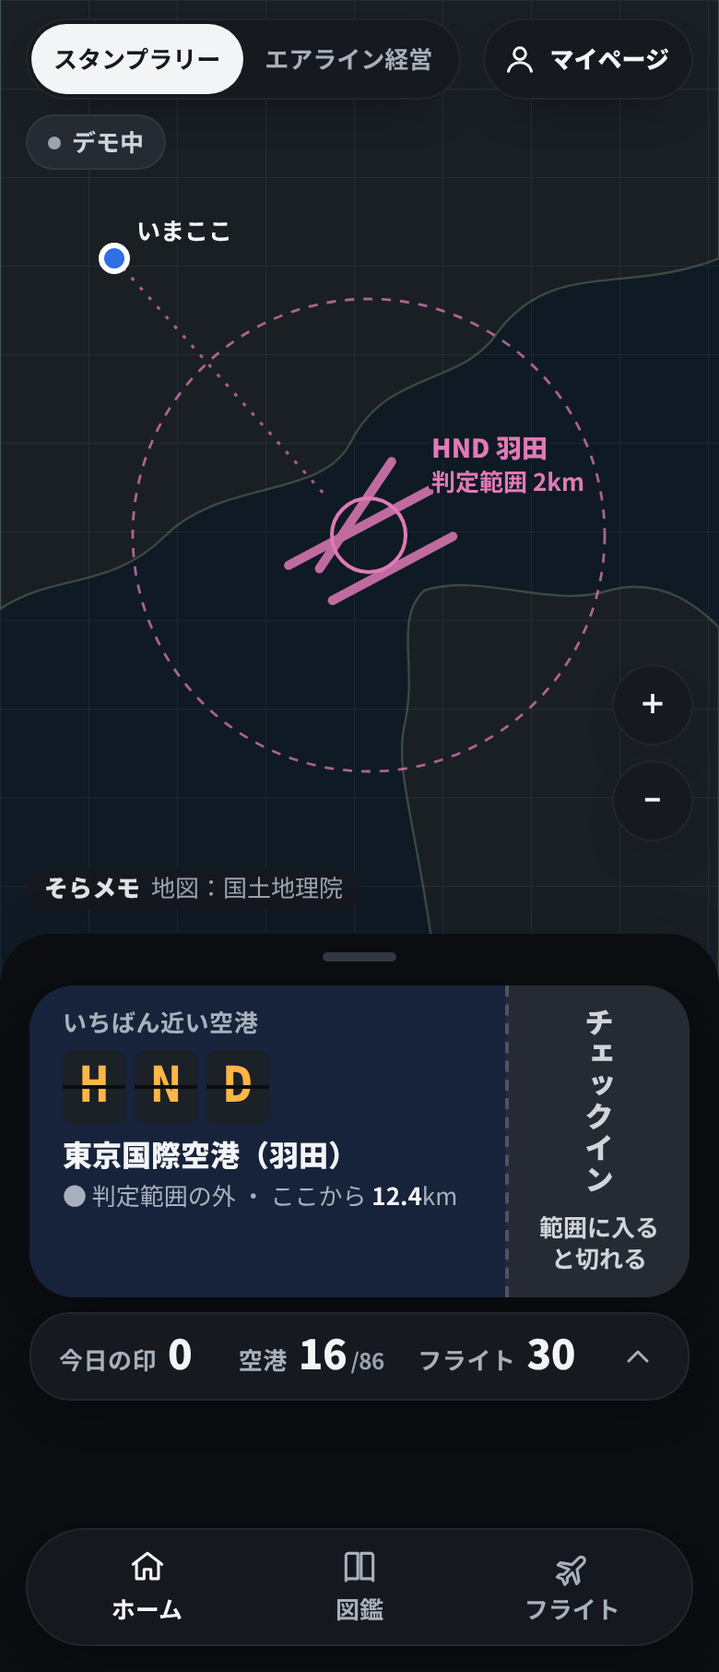
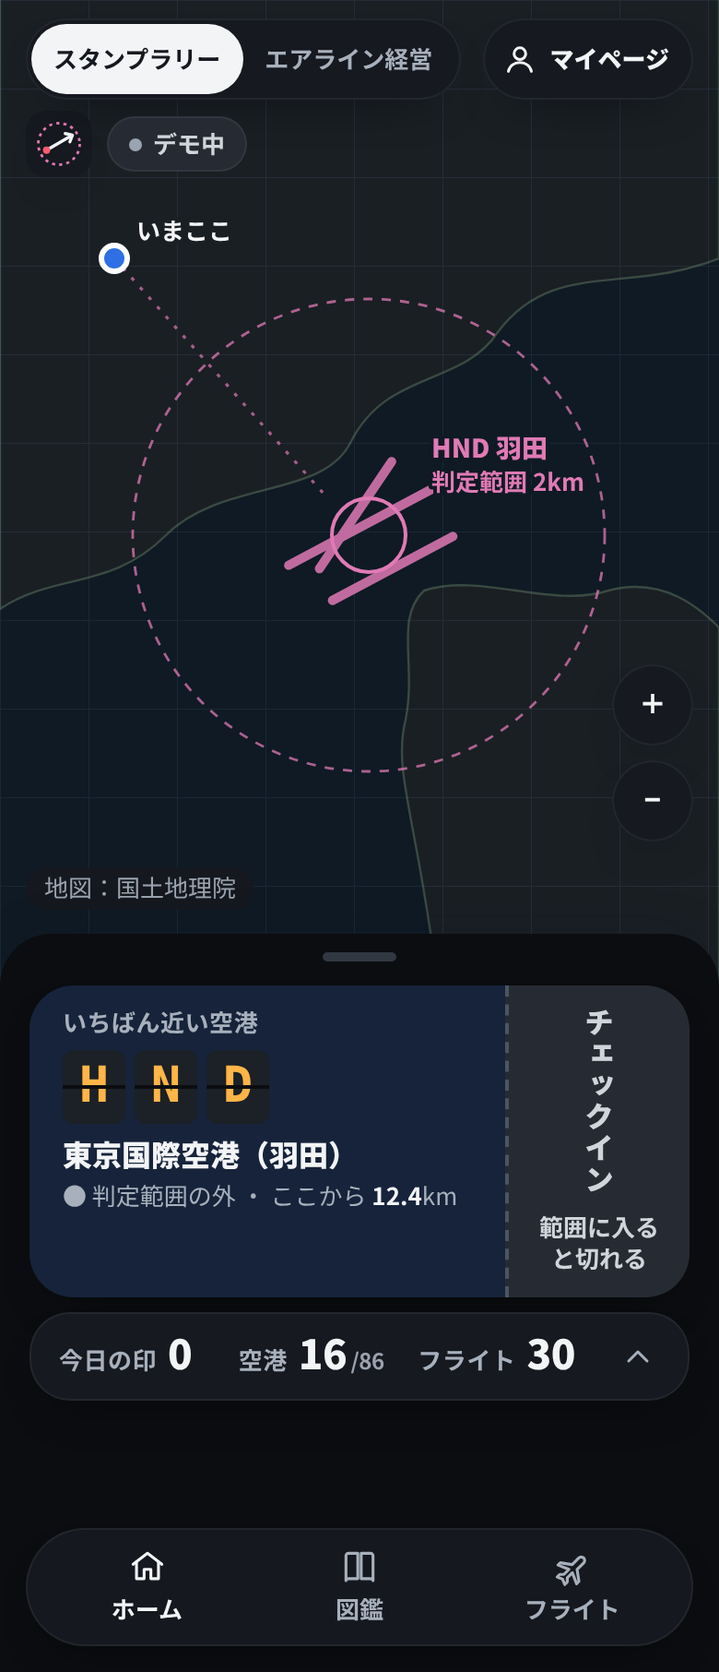
改善案 v3：PM の指示に合わせて直す（風なしの大見出しを着陸34R・離陸05に、図だけのロゴを左上に、タブは構成「気軽に」でそろえる）
Claude-Session: https://claude.ai/code/session_01WGRBVJA1Rx95K6JGREw4CD

Changed region(s): [[0.0615, 0.5254, 0.4615, 0.5563], [0.0308, 0.0618, 0.3077, 0.0927]]

diff --git a/docs/design/improve-1106/index.html b/docs/design/improve-1106/index.html
@@ -68,10 +68,10 @@ figure a{display:inline-block;margin-top:8px;font-size:13px;font-weight:700;colo
 <p class="eyebrow">画面案 v1・v2・v3 ・ アプリにはまだ入っていません</p>
 <h1>そらメモ 改善案（上位3つ）</h1>
 <p class="lead">左から、今の本番・v1（最初の案）・v2（指摘1回目を直した版）・v3（指摘2回目を直した版）。v2 は端末の暗い表示にも合わせてあります（png/plan-*-dark-v2.png）。指摘ごとの直し方は answer-1.md（v2）と answer-2.md（v3）にあります。v3 は暗い表示の PNG も png/plan-*-dark-v3.png にあります。</p>
-<section class="pair"><h2>1. ホーム（地図とシート）</h2><p class="d">v2：止まり位置を2段に。上の段は「スタンプラリー／エアライン経営」と人の図＋「マイページ」</p><div class="two"><figure><figcaption>いま（本番・デモ）</figcaption><img src="png/now-home.png" alt="いま（本番・デモ）" width="300"></figure><figure><figcaption>v1</figcaption><div class="frame"><iframe src="01-home.html" title="v1"></iframe></div><a href="01-home.html">この案だけ開く</a></figure><figure><figcaption>v2・最初の位置</figcaption><div class="frame"><iframe src="01-home-v2.html" title="v2・最初の位置"></iframe></div><a href="01-home-v2.html">この案だけ開く</a></figure><figure><figcaption>v2・引き上げた位置</figcaption><div class="frame"><iframe src="01b-home-open-v2.html" title="v2・引き上げた位置"></iframe></div><a href="01b-home-open-v2.html">この案だけ開く</a></figure><figure><figcaption>v3・最初の位置</figcaption><div class="frame"><iframe src="01-home-v3.html" title="v3・最初の位置"></iframe></div><a href="01-home-v3.html">この案だけ開く</a></figure><figure><figcaption>v3・引き上げた位置</figcaption><div class="frame"><iframe src="01b-home-open-v3.html" title="v3・引き上げた位置"></iframe></div><a href="01b-home-open-v3.html">この案だけ開く</a></figure></div><ul class="fix"><li>指摘4：「デ」の丸と「印／経営」をやめ、今の名前「スタンプラリー／エアライン経営」（どちらも高さ44px・濃いグレー）と人の図＋「マイページ」</li><li>指摘6：最初の位置で地図は上の段の下から約450px（今 約350・v1 約330）</li><li>指摘1：最初の位置は半券と今日の数字1列。最近の印は引き上げた位置でタブ帯の上に全部見える</li><li>指摘10：デモは白地の「デモ中」だけ。終了はマイページへ</li><li>指摘5：字13px（単位12px）・押せる所44px・補足 #5F6878。地図のラベルは HND 羽田</li><li>v3（2回目の指摘4）：半券は右へ引くだけ。金色の部分に「→」と「右へ引いて印をもらう」。押しても切れる（確かめ1回）</li><li>v3（2回目の指摘8）：地図の出典のピルに小さく「そらメモ」（v2 は名前なし。本人が比べて決める）</li></ul></section>
+<section class="pair"><h2>1. ホーム（地図とシート）</h2><p class="d">v2：止まり位置を2段に。上の段は「スタンプラリー／エアライン経営」と人の図＋「マイページ」</p><div class="two"><figure><figcaption>いま（本番・デモ）</figcaption><img src="png/now-home.png" alt="いま（本番・デモ）" width="300"></figure><figure><figcaption>v1</figcaption><div class="frame"><iframe src="01-home.html" title="v1"></iframe></div><a href="01-home.html">この案だけ開く</a></figure><figure><figcaption>v2・最初の位置</figcaption><div class="frame"><iframe src="01-home-v2.html" title="v2・最初の位置"></iframe></div><a href="01-home-v2.html">この案だけ開く</a></figure><figure><figcaption>v2・引き上げた位置</figcaption><div class="frame"><iframe src="01b-home-open-v2.html" title="v2・引き上げた位置"></iframe></div><a href="01b-home-open-v2.html">この案だけ開く</a></figure><figure><figcaption>v3・最初の位置</figcaption><div class="frame"><iframe src="01-home-v3.html" title="v3・最初の位置"></iframe></div><a href="01-home-v3.html">この案だけ開く</a></figure><figure><figcaption>v3・引き上げた位置</figcaption><div class="frame"><iframe src="01b-home-open-v3.html" title="v3・引き上げた位置"></iframe></div><a href="01b-home-open-v3.html">この案だけ開く</a></figure></div><ul class="fix"><li>指摘4：「デ」の丸と「印／経営」をやめ、今の名前「スタンプラリー／エアライン経営」（どちらも高さ44px・濃いグレー）と人の図＋「マイページ」</li><li>指摘6：最初の位置で地図は上の段の下から約450px（今 約350・v1 約330）</li><li>指摘1：最初の位置は半券と今日の数字1列。最近の印は引き上げた位置でタブ帯の上に全部見える</li><li>指摘10：デモは白地の「デモ中」だけ。終了はマイページへ</li><li>指摘5：字13px（単位12px）・押せる所44px・補足 #5F6878。地図のラベルは HND 羽田</li><li>v3（2回目の指摘4）：半券は右へ引くだけ。金色の部分に「→」と「右へ引いて印をもらう」。押しても切れる（確かめ1回）</li><li>v3（2回目の指摘8・PM の指示）：図だけの小さいロゴ（36px）を左上、上の段のすぐ下に残した</li></ul></section>
 <section class="pair"><h2>1b. ホーム：判定範囲の外・ログインしていない（v3 で足した）</h2><p class="d">はじめて開いた人がいちばん先に見る状態（2回目の指摘3）</p><div class="two"><figure><figcaption>v3・判定範囲の外</figcaption><div class="frame"><iframe src="01c-home-out-v3.html" title="v3・判定範囲の外"></iframe></div><a href="01c-home-out-v3.html">この案だけ開く</a></figure><figure><figcaption>v3・ログインしていない</figcaption><div class="frame"><iframe src="01d-home-guest-v3.html" title="v3・ログインしていない"></iframe></div><a href="01d-home-guest-v3.html">この案だけ開く</a></figure></div><ul class="fix"><li>範囲の外：切り取り部分を灰色にして押せないと分かるように、理由「範囲に入ると切れる」を1行。状態の行に「判定範囲の外・ここから 12.4km」</li><li>ログインしていない：数字の列の代わりに「ログイン・登録」「デモで試す」。理由が重なるときはログインを先に出す</li></ul></section>
 <section class="pair"><h2>2. マイページ（タイル）</h2><p class="d">v2：大きい字はいつも今の値。下のタブにない画面・デモを終える・使い方の一覧</p><div class="two"><figure><figcaption>いま（本番・デモ）</figcaption><img src="png/now-mypage.png" alt="いま（本番・デモ）" width="300"></figure><figure><figcaption>v1</figcaption><div class="frame"><iframe src="02-mypage.html" title="v1"></iframe></div><a href="02-mypage.html">この案だけ開く</a></figure><figure><figcaption>v2</figcaption><div class="frame"><iframe src="02-mypage-v2.html" title="v2"></iframe></div><a href="02-mypage-v2.html">この案だけ開く</a></figure><figure><figcaption>v3</figcaption><div class="frame"><iframe src="02-mypage-v3.html" title="v3"></iframe></div><a href="02-mypage-v3.html">この案だけ開く</a></figure></div><ul class="fix"><li>指摘3：「下のタブにない画面」に修行・運用・成績。「構成」の2行目「タブの並びを変える」から表示を編集</li><li>指摘7：アカウント「デモ中」、データ「11/5 最後の書き出し」。使い方と規約は一覧の2行</li><li>指摘10：「デモを終える」（押すと確かめる画面）</li><li>v3（2回目の指摘7）：下の行は大きい字の説明だけ（気軽に／タブ3つ・ノーマル／全社を表示・デモ中／ログインしていない・11/5／最後に書き出した日）</li></ul></section>
-<section class="pair"><h2>3. 運用（空の情報）</h2><p class="d">v2：推定のもとを出し分け、1枚目の下に「推定です。実際の運用と違うことがあります。」</p><div class="two"><figure><figcaption>いま（本番・デモ）</figcaption><img src="png/now-ops.png" alt="いま（本番・デモ）" width="300"></figure><figure><figcaption>v1</figcaption><div class="frame"><iframe src="03-ops.html" title="v1"></iframe></div><a href="03-ops.html">この案だけ開く</a></figure><figure><figcaption>v2・風が届いていない</figcaption><div class="frame"><iframe src="03-ops-v2.html" title="v2・風が届いていない"></iframe></div><a href="03-ops-v2.html">この案だけ開く</a></figure><figure><figcaption>v2・風が届いた</figcaption><div class="frame"><iframe src="03b-ops-wind-v2.html" title="v2・風が届いた"></iframe></div><a href="03b-ops-wind-v2.html">この案だけ開く</a></figure><figure><figcaption>v3・風が届いていない</figcaption><div class="frame"><iframe src="03-ops-v3.html" title="v3・風が届いていない"></iframe></div><a href="03-ops-v3.html">この案だけ開く</a></figure><figure><figcaption>v3・風が届いた</figcaption><div class="frame"><iframe src="03b-ops-wind-v3.html" title="v3・風が届いた"></iframe></div><a href="03b-ops-wind-v3.html">この案だけ開く</a></figure></div><ul class="fix"><li>指摘2：風がなければ「時間帯からの推定」、あれば「風からの推定」。定時は遅れと欠航がそろってからカードに</li><li>指摘9：断りの1行を i にしまわず、14px・濃いグレーで</li><li>指摘8：推定のピルを押すとほかの向きを選べる。並べ替え ✎ は右端に固定</li><li>v3（2回目の指摘1）：風がないときは「いまの使い方（推定）」で、組み合わせ 34R・05 だけを大きく。「北風運用」は風が届いたときだけ</li><li>v3（2回目の指摘2）：マイページから開くので、タブは3つのまま＋「‹ マイページ」</li><li>v3（2回目の指摘5・6・9・10）：「読み込み中」と「いまは出ていない」を分ける、距離は「ここからの距離」で場所ごとに違う値＋「おすすめ」、✎ は見出しの右、「今日の定時率」</li></ul></section>
+<section class="pair"><h2>3. 運用（空の情報）</h2><p class="d">v2：推定のもとを出し分け、1枚目の下に「推定です。実際の運用と違うことがあります。」</p><div class="two"><figure><figcaption>いま（本番・デモ）</figcaption><img src="png/now-ops.png" alt="いま（本番・デモ）" width="300"></figure><figure><figcaption>v1</figcaption><div class="frame"><iframe src="03-ops.html" title="v1"></iframe></div><a href="03-ops.html">この案だけ開く</a></figure><figure><figcaption>v2・風が届いていない</figcaption><div class="frame"><iframe src="03-ops-v2.html" title="v2・風が届いていない"></iframe></div><a href="03-ops-v2.html">この案だけ開く</a></figure><figure><figcaption>v2・風が届いた</figcaption><div class="frame"><iframe src="03b-ops-wind-v2.html" title="v2・風が届いた"></iframe></div><a href="03b-ops-wind-v2.html">この案だけ開く</a></figure><figure><figcaption>v3・風が届いていない</figcaption><div class="frame"><iframe src="03-ops-v3.html" title="v3・風が届いていない"></iframe></div><a href="03-ops-v3.html">この案だけ開く</a></figure><figure><figcaption>v3・風が届いた</figcaption><div class="frame"><iframe src="03b-ops-wind-v3.html" title="v3・風が届いた"></iframe></div><a href="03b-ops-wind-v3.html">この案だけ開く</a></figure></div><ul class="fix"><li>指摘2：風がなければ「時間帯からの推定」、あれば「風からの推定」。定時は遅れと欠航がそろってからカードに</li><li>指摘9：断りの1行を i にしまわず、14px・濃いグレーで</li><li>指摘8：推定のピルを押すとほかの向きを選べる。並べ替え ✎ は右端に固定</li><li>v3（2回目の指摘1）：風がないときは見出し「いまの使い方（推定）」、大見出しは「着陸34R・離陸05」。「北風運用」は風が届いたときだけ</li><li>v3（2回目の指摘2）：タブの数は構成ごとに違ってよいが同じ構成ではそろえる（PM の判断）。見本は全部「気軽に」で、マイページから開いた運用もタブ3つ＋「‹ マイページ」</li><li>v3（2回目の指摘5・6・9・10）：「読み込み中」と「いまは出ていない」を分ける、距離は「ここからの距離」で場所ごとに違う値＋「おすすめ」、✎ は見出しの右、「今日の定時率」</li></ul></section>
 </main>
 </body>
 </html>

diff --git a/docs/design/improve-1106/03-ops-v3.html b/docs/design/improve-1106/03-ops-v3.html
@@ -91,6 +91,9 @@ body{background:var(--bg);color:var(--ink);font-family:var(--gothic);font-size:1
 
 .back{height:44px;display:flex;align-items:center;font-size:14px;font-weight:800;color:var(--strong);background:var(--card);box-shadow:var(--shadow);border-radius:999px;padding:0 14px 0 12px;flex:none}
 .hero .cond{margin:6px 0 0;font-size:13px;color:var(--hero-sub)}
+.hero h2.combo{font-size:20px;font-weight:800;margin:8px 0 2px;display:flex;align-items:baseline;gap:6px}
+.hero h2.combo b{font-family:var(--sign);font-size:46px;line-height:1;margin-right:4px}
+.hero h2.combo i{font-style:normal;color:var(--hero-sub);margin:0 4px}
 .rw.big b{font-size:48px}
 .rw.big span{display:block;margin:2px 0 0}
 .wait{flex-direction:column;gap:6px}
@@ -110,8 +113,7 @@ body{background:var(--bg);color:var(--ink);font-family:var(--gothic);font-size:1
 <div class="bar"><span class="back">‹ マイページ</span><span class="ap"><i>HND</i>羽田 ▾</span><span class="ic" style="margin-left:auto" aria-label="くわしい説明">i</span><span class="ic" aria-label="共有"><svg viewBox="0 0 24 24"><path d="M12 15V4"/><path d="m7.5 8.5 4.5-4.5 4.5 4.5"/><path d="M5 13v5.5c0 .8.7 1.5 1.5 1.5h11c.8 0 1.5-.7 1.5-1.5V13"/></svg></span></div>
 <section class="hero" aria-label="いまの運用">
 <div class="top"><span class="lab">いまの使い方（推定）</span><span class="est" aria-label="時間帯からの推定。押すとほかの向きを選べる">時間帯からの推定<svg class="ico" viewBox="0 0 24 24" style="width:16px;height:16px"><path d="m6 9 6 6 6-6"/></svg></span></div>
-<div class="when" style="margin-top:6px">22:41 時点 ・ 深夜の時間帯によく使う組み合わせ</div>
-<div class="rw big"><div><small>着陸</small><b>34R</b><span>ILS Z</span></div><div><small>離陸</small><b>05</b></div></div>
+<h2 class="combo">着陸<b>34R</b><i>・</i>離陸<b>05</b></h2><div class="when">22:41 時点 ・ 深夜の時間帯によく使う組み合わせ ・ 着陸は ILS Z</div>
 <p class="cond">北風か南風かは、風の情報が届いてから出します。</p>
 </section>
 <p class="est1">推定です。実際の運用と違うことがあります。</p>
@@ -128,8 +130,8 @@ body{background:var(--bg);color:var(--ink);font-family:var(--gothic);font-size:1
 </div>
 <nav class="tabs" aria-label="画面の切り替え"><b class=""><svg viewBox="0 0 24 24"><path d="M3.5 10.5 12 4l8.5 6.5"/><path d="M5.5 9v10h4.5v-5.5h4V19h4.5V9"/></svg>ホーム</b><b class=""><svg viewBox="0 0 24 24"><path d="M4 5.5C4 4.7 4.7 4 5.5 4H11v15H5.5c-.8 0-1.5.5-1.5 1.2V5.5Z"/><path d="M20 5.5c0-.8-.7-1.5-1.5-1.5H13v15h5.5c.8 0 1.5.5 1.5 1.2V5.5Z"/></svg>図鑑</b><b class=""><svg viewBox="0 0 24 24"><path d="M10.5 13.5 4 11l1.4-1.4 7 1.1 3.9-3.9c.8-.8 2.1-.8 2.9 0s.8 2.1 0 2.9l-3.9 3.9 1.1 7L15 22l-2.5-6.5-3 3v2.5L8 22.5l-1.3-3.2L3.5 18 5 16.5h2.5Z"/></svg>フライト</b></nav>
 </main>
-<aside class="ann"><b>3版のメモ（本番には出ません）</b><ul><li><b>北風と言い切らない</b>（2回目の指摘1）：風が届いていないときは見出しを「いまの使い方（推定）」にし、大きく出すのは着陸 34R・離陸 05 の組み合わせだけ（48px）。「北風運用」の言葉は風が届いた 03b だけで使う。カードの中に「北風か南風かは、風の情報が届いてから出します。」</li>
-<li><b>タブの数</b>（2回目の指摘2）：運用はマイページの「下のタブにない画面」から開くので、タブ帯はホームと同じ3つのまま（どれも選ばれていない）。上の左に「‹ マイページ」の戻るピル</li>
+<aside class="ann"><b>3版のメモ（本番には出ません）</b><ul><li><b>北風と言い切らない</b>（2回目の指摘1）：風が届いていないときは見出しを「いまの使い方（推定）」にし、大見出しは滑走路の組み合わせ「着陸34R・離陸05」（数字46px）。「北風運用」の言葉は風が届いた 03b だけで使う。カードの中に「北風か南風かは、風の情報が届いてから出します。」</li>
+<li><b>タブの数</b>（2回目の指摘2・PM の判断）：タブの数は構成ごとに違ってよいが、同じ構成の中ではそろえる。この見本は全部「気軽に」。運用はマイページの「下のタブにない画面」から開くので、タブ帯はホームと同じ3つのまま（どれも選ばれていない）。上の左に「‹ マイページ」の戻るピル</li>
 <li><b>届いていないものの行</b>（2回目の指摘5）：「読み込み中：遅れと欠航・今日の定時率」と「いまは出ていない：風の情報」を分けた。「気象通報」の言葉はやめた</li>
 <li><b>見に行く</b>（2回目の指摘6）：右の大きい数字は「ここからの距離」に決めて、場所ごとに違う値（見本）。◎○ はやめ、1つ目に「おすすめ」の小さなピル。表の上に「場所／ここからの距離」の1行</li>
 <li><b>✎</b>（2回目の指摘9）：ピル列の外、見出し「この空港で」の右へ。4つ目のピル「短冊」は半分ほど見える位置で切れる</li>

diff --git a/docs/design/improve-1106/01-home-v3.html b/docs/design/improve-1106/01-home-v3.html
@@ -96,7 +96,9 @@ body{background:var(--bg);color:var(--ink);font-family:var(--gothic);font-size:1
 .pass .s{position:relative}
 .pass .s .vv{display:flex;align-items:center;gap:6px}
 .pass .s .arr{font-size:20px;line-height:1;font-weight:800}
-.cred b{color:var(--strong);font-weight:800;margin-right:6px}
+.logo{position:absolute;top:60px;left:14px;width:36px;height:36px;border-radius:11px;box-shadow:var(--shadow);z-index:5;overflow:hidden}
+.logo svg{width:36px;height:36px;display:block}
+.demo{left:58px !important;top:63px !important}
 .pass .s.off{background:var(--off-bg);color:var(--off-ink);border-left-color:var(--line)}
 .dot-off{color:var(--hero-sub) !important}
 .gate{margin-top:8px;padding:12px 14px 12px 16px}
@@ -125,10 +127,10 @@ body{background:var(--bg);color:var(--ink);font-family:var(--gothic);font-size:1
 <circle cx="180" cy="318" r="7" fill="#2F6FE4" stroke="#fff" stroke-width="3"/>
 </g>
 </svg></div>
-<div class="top"><span class="msw" role="tablist" aria-label="スタンプラリーとエアライン経営の切り替え"><span class="on" role="tab" aria-selected="true">スタンプラリー</span><span role="tab">エアライン経営</span></span>
+<span class="logo" role="img" aria-label="そらメモ"><svg viewBox="0 0 64 64" aria-hidden="true"><rect width="64" height="64" rx="18" fill="var(--card)"/><circle cx="32" cy="32" r="20" fill="none" stroke="var(--chart-apt)" stroke-width="2.5" stroke-dasharray="3 4"/><path d="M20 38 L44 24" stroke="var(--strong)" stroke-width="3" stroke-linecap="round"/><path d="M38 22 l7 1.5 -2.5 6.5" fill="none" stroke="var(--strong)" stroke-width="3" stroke-linecap="round" stroke-linejoin="round"/><circle cx="20" cy="38" r="3.5" fill="var(--jal)"/></svg></span><div class="top"><span class="msw" role="tablist" aria-label="スタンプラリーとエアライン経営の切り替え"><span class="on" role="tab" aria-selected="true">スタンプラリー</span><span role="tab">エアライン経営</span></span>
 <span class="mp" aria-label="マイページ"><svg class="ico" viewBox="0 0 24 24"><circle cx="12" cy="8.5" r="3.8"/><path d="M4.5 20c.9-3.8 4-5.8 7.5-5.8s6.6 2 7.5 5.8"/></svg>マイページ</span></div>
 <div class="demo" aria-label="デモモード中">デモ中</div>
-<div class="mtools"><span class="ic" aria-label="大きく">＋</span><span class="ic" aria-label="小さく">−</span></div><span class="cred"><b>そらメモ</b>地図：国土地理院</span>
+<div class="mtools"><span class="ic" aria-label="大きく">＋</span><span class="ic" aria-label="小さく">−</span></div><span class="cred">地図：国土地理院</span>
 <section class="sheet" aria-label="シート（最初の止まり位置）">
 <span class="grab" aria-label="引き上げる"></span>
 <div class="pass"><div class="m"><div class="lab">いちばん近い空港</div><div class="flap" aria-label="HND"><i>H</i><i>N</i><i>D</i></div>
@@ -139,7 +141,7 @@ body{background:var(--bg);color:var(--ink);font-family:var(--gothic);font-size:1
 <nav class="tabs" aria-label="画面の切り替え"><b class="on"><svg viewBox="0 0 24 24"><path d="M3.5 10.5 12 4l8.5 6.5"/><path d="M5.5 9v10h4.5v-5.5h4V19h4.5V9"/></svg>ホーム</b><b class=""><svg viewBox="0 0 24 24"><path d="M4 5.5C4 4.7 4.7 4 5.5 4H11v15H5.5c-.8 0-1.5.5-1.5 1.2V5.5Z"/><path d="M20 5.5c0-.8-.7-1.5-1.5-1.5H13v15h5.5c.8 0 1.5.5 1.5 1.2V5.5Z"/></svg>図鑑</b><b class=""><svg viewBox="0 0 24 24"><path d="M10.5 13.5 4 11l1.4-1.4 7 1.1 3.9-3.9c.8-.8 2.1-.8 2.9 0s.8 2.1 0 2.9l-3.9 3.9 1.1 7L15 22l-2.5-6.5-3 3v2.5L8 22.5l-1.3-3.2L3.5 18 5 16.5h2.5Z"/></svg>フライト</b></nav>
 </main>
 <aside class="ann"><b>3版のメモ（本番には出ません）</b><ul><li><b>切る向き</b>（2回目の指摘4）：半券は右へ引いて切るだけにし、金色の部分に「→」と「右へ引いて印をもらう」を戻した。シートを動かすのはつまみと半券の外だけ。押すだけでも切れる（「印をもらいますか」の確かめが1回出る）</li>
-<li><b>名前</b>（2回目の指摘8）：上の段には入らないので、地図の出典のピルに小さく「そらメモ」を置いた（v2 との比べは一覧で）</li>
+<li><b>ロゴ</b>（2回目の指摘8・PM の指示）：図だけの小さいロゴ（36px・今のログイン画面と同じ図）を左上、上の段のすぐ下に残した。押す所ではない。デモ中のピルはその右</li>
 <li>止まり位置は2段のまま。最初の位置で地図は約450px、タブ帯の下には何ももぐらない</li>
 <li>範囲の外は 01c、ログインしていないときは 01d</li></ul></aside>
 <script>if(window!==window.top){var a=document.querySelector('.ann');if(a)a.remove()}</script>

diff --git a/docs/design/improve-1106/01c-home-out-v3.html b/docs/design/improve-1106/01c-home-out-v3.html
@@ -96,7 +96,9 @@ body{background:var(--bg);color:var(--ink);font-family:var(--gothic);font-size:1
 .pass .s{position:relative}
 .pass .s .vv{display:flex;align-items:center;gap:6px}
 .pass .s .arr{font-size:20px;line-height:1;font-weight:800}
-.cred b{color:var(--strong);font-weight:800;margin-right:6px}
+.logo{position:absolute;top:60px;left:14px;width:36px;height:36px;border-radius:11px;box-shadow:var(--shadow);z-index:5;overflow:hidden}
+.logo svg{width:36px;height:36px;display:block}
+.demo{left:58px !important;top:63px !important}
 .pass .s.off{background:var(--off-bg);color:var(--off-ink);border-left-color:var(--line)}
 .dot-off{color:var(--hero-sub) !important}
 .gate{margin-top:8px;padding:12px 14px 12px 16px}
@@ -125,10 +127,10 @@ body{background:var(--bg);color:var(--ink);font-family:var(--gothic);font-size:1
 <path d="M62 150 L176 278" stroke="var(--chart-apt)" stroke-width="1.6" stroke-dasharray="2 5" opacity=".7"/><circle cx="62" cy="150" r="7" fill="#2F6FE4" stroke="#fff" stroke-width="3"/><text x="74" y="140" font-size="13" font-weight="700" fill="var(--strong)" font-family="var(--gothic)" style="stroke:var(--chart-land)">いまここ</text>
 </g>
 </svg></div>
-<div class="top"><span class="msw" role="tablist" aria-label="スタンプラリーとエアライン経営の切り替え"><span class="on" role="tab" aria-selected="true">スタンプラリー</span><span role="tab">エアライン経営</span></span>
+<span class="logo" role="img" aria-label="そらメモ"><svg viewBox="0 0 64 64" aria-hidden="true"><rect width="64" height="64" rx="18" fill="var(--card)"/><circle cx="32" cy="32" r="20" fill="none" stroke="var(--chart-apt)" stroke-width="2.5" stroke-dasharray="3 4"/><path d="M20 38 L44 24" stroke="var(--strong)" stroke-width="3" stroke-linecap="round"/><path d="M38 22 l7 1.5 -2.5 6.5" fill="none" stroke="var(--strong)" stroke-width="3" stroke-linecap="round" stroke-linejoin="round"/><circle cx="20" cy="38" r="3.5" fill="var(--jal)"/></svg></span><div class="top"><span class="msw" role="tablist" aria-label="スタンプラリーとエアライン経営の切り替え"><span class="on" role="tab" aria-selected="true">スタンプラリー</span><span role="tab">エアライン経営</span></span>
 <span class="mp" aria-label="マイページ"><svg class="ico" viewBox="0 0 24 24"><circle cx="12" cy="8.5" r="3.8"/><path d="M4.5 20c.9-3.8 4-5.8 7.5-5.8s6.6 2 7.5 5.8"/></svg>マイページ</span></div>
 <div class="demo" aria-label="デモモード中">デモ中</div>
-<div class="mtools"><span class="ic" aria-label="大きく">＋</span><span class="ic" aria-label="小さく">−</span></div><span class="cred"><b>そらメモ</b>地図：国土地理院</span>
+<div class="mtools"><span class="ic" aria-label="大きく">＋</span><span class="ic" aria-label="小さく">−</span></div><span class="cred">地図：国土地理院</span>
 <section class="sheet" aria-label="シート（最初の止まり位置）">
 <span class="grab" aria-label="引き上げる"></span>
 <div class="pass"><div class="m"><div class="lab">いちばん近い空港</div><div class="flap" aria-label="HND"><i>H</i><i>N</i><i>D</i></div>

diff --git a/docs/design/improve-1106/01d-home-guest-v3.html b/docs/design/improve-1106/01d-home-guest-v3.html
@@ -96,7 +96,9 @@ body{background:var(--bg);color:var(--ink);font-family:var(--gothic);font-size:1
 .pass .s{position:relative}
 .pass .s .vv{display:flex;align-items:center;gap:6px}
 .pass .s .arr{font-size:20px;line-height:1;font-weight:800}
-.cred b{color:var(--strong);font-weight:800;margin-right:6px}
+.logo{position:absolute;top:60px;left:14px;width:36px;height:36px;border-radius:11px;box-shadow:var(--shadow);z-index:5;overflow:hidden}
+.logo svg{width:36px;height:36px;display:block}
+.demo{left:58px !important;top:63px !important}
 .pass .s.off{background:var(--off-bg);color:var(--off-ink);border-left-color:var(--line)}
 .dot-off{color:var(--hero-sub) !important}
 .gate{margin-top:8px;padding:12px 14px 12px 16px}
@@ -126,10 +128,10 @@ body{background:var(--bg);color:var(--ink);font-family:var(--gothic);font-size:1
 <path d="M62 150 L176 278" stroke="var(--chart-apt)" stroke-width="1.6" stroke-dasharray="2 5" opacity=".7"/><circle cx="62" cy="150" r="7" fill="#2F6FE4" stroke="#fff" stroke-width="3"/><text x="74" y="140" font-size="13" font-weight="700" fill="var(--strong)" font-family="var(--gothic)" style="stroke:var(--chart-land)">いまここ</text>
 </g>
 </svg></div>
-<div class="top"><span class="msw" role="tablist" aria-label="スタンプラリーとエアライン経営の切り替え"><span class="on" role="tab" aria-selected="true">スタンプラリー</span><span role="tab">エアライン経営</span></span>
+<span class="logo" role="img" aria-label="そらメモ"><svg viewBox="0 0 64 64" aria-hidden="true"><rect width="64" height="64" rx="18" fill="var(--card)"/><circle cx="32" cy="32" r="20" fill="none" stroke="var(--chart-apt)" stroke-width="2.5" stroke-dasharray="3 4"/><path d="M20 38 L44 24" stroke="var(--strong)" stroke-width="3" stroke-linecap="round"/><path d="M38 22 l7 1.5 -2.5 6.5" fill="none" stroke="var(--strong)" stroke-width="3" stroke-linecap="round" stroke-linejoin="round"/><circle cx="20" cy="38" r="3.5" fill="var(--jal)"/></svg></span><div class="top"><span class="msw" role="tablist" aria-label="スタンプラリーとエアライン経営の切り替え"><span class="on" role="tab" aria-selected="true">スタンプラリー</span><span role="tab">エアライン経営</span></span>
 <span class="mp" aria-label="マイページ"><svg class="ico" viewBox="0 0 24 24"><circle cx="12" cy="8.5" r="3.8"/><path d="M4.5 20c.9-3.8 4-5.8 7.5-5.8s6.6 2 7.5 5.8"/></svg>マイページ</span></div>
 
-<div class="mtools"><span class="ic" aria-label="大きく">＋</span><span class="ic" aria-label="小さく">−</span></div><span class="cred"><b>そらメモ</b>地図：国土地理院</span>
+<div class="mtools"><span class="ic" aria-label="大きく">＋</span><span class="ic" aria-label="小さく">−</span></div><span class="cred">地図：国土地理院</span>
 <section class="sheet" aria-label="シート（最初の止まり位置）">
 <span class="grab" aria-label="引き上げる"></span>
 <div class="pass"><div class="m"><div class="lab">いちばん近い空港</div><div class="flap" aria-label="HND"><i>H</i><i>N</i><i>D</i></div>

diff --git a/docs/design/improve-1106/01b-home-open-v3.html b/docs/design/improve-1106/01b-home-open-v3.html
@@ -96,7 +96,9 @@ body{background:var(--bg);color:var(--ink);font-family:var(--gothic);font-size:1
 .pass .s{position:relative}
 .pass .s .vv{display:flex;align-items:center;gap:6px}
 .pass .s .arr{font-size:20px;line-height:1;font-weight:800}
-.cred b{color:var(--strong);font-weight:800;margin-right:6px}
+.logo{position:absolute;top:60px;left:14px;width:36px;height:36px;border-radius:11px;box-shadow:var(--shadow);z-index:5;overflow:hidden}
+.logo svg{width:36px;height:36px;display:block}
+.demo{left:58px !important;top:63px !important}
 .pass .s.off{background:var(--off-bg);color:var(--off-ink);border-left-color:var(--line)}
 .dot-off{color:var(--hero-sub) !important}
 .gate{margin-top:8px;padding:12px 14px 12px 16px}
@@ -125,10 +127,10 @@ body{background:var(--bg);color:var(--ink);font-family:var(--gothic);font-size:1
 <circle cx="180" cy="318" r="7" fill="#2F6FE4" stroke="#fff" stroke-width="3"/>
 </g>
 </svg></div>
-<div class="top"><span class="msw" role="tablist" aria-label="スタンプラリーとエアライン経営の切り替え"><span class="on" role="tab" aria-selected="true">スタンプラリー</span><span role="tab">エアライン経営</span></span>
+<span class="logo" role="img" aria-label="そらメモ"><svg viewBox="0 0 64 64" aria-hidden="true"><rect width="64" height="64" rx="18" fill="var(--card)"/><circle cx="32" cy="32" r="20" fill="none" stroke="var(--chart-apt)" stroke-width="2.5" stroke-dasharray="3 4"/><path d="M20 38 L44 24" stroke="var(--strong)" stroke-width="3" stroke-linecap="round"/><path d="M38 22 l7 1.5 -2.5 6.5" fill="none" stroke="var(--strong)" stroke-width="3" stroke-linecap="round" stroke-linejoin="round"/><circle cx="20" cy="38" r="3.5" fill="var(--jal)"/></svg></span><div class="top"><span class="msw" role="tablist" aria-label="スタンプラリーとエアライン経営の切り替え"><span class="on" role="tab" aria-selected="true">スタンプラリー</span><span role="tab">エアライン経営</span></span>
 <span class="mp" aria-label="マイページ"><svg class="ico" viewBox="0 0 24 24"><circle cx="12" cy="8.5" r="3.8"/><path d="M4.5 20c.9-3.8 4-5.8 7.5-5.8s6.6 2 7.5 5.8"/></svg>マイページ</span></div>
 <div class="demo" aria-label="デモモード中">デモ中</div>
-<div class="mtools"><span class="ic" aria-label="大きく">＋</span><span class="ic" aria-label="小さく">−</span></div><span class="cred"><b>そらメモ</b>地図：国土地理院</span>
+<div class="mtools"><span class="ic" aria-label="大きく">＋</span><span class="ic" aria-label="小さく">−</span></div><span class="cred">地図：国土地理院</span>
 <section class="sheet" aria-label="シート（引き上げた止まり位置）">
 <span class="grab" aria-label="下げる"></span>
 <div class="pass"><div class="m"><div class="lab">いちばん近い空港</div><div class="flap" aria-label="HND"><i>H</i><i>N</i><i>D</i></div>

diff --git a/docs/design/improve-1106/03b-ops-wind-v3.html b/docs/design/improve-1106/03b-ops-wind-v3.html
@@ -91,6 +91,9 @@ body{background:var(--bg);color:var(--ink);font-family:var(--gothic);font-size:1
 
 .back{height:44px;display:flex;align-items:center;font-size:14px;font-weight:800;color:var(--strong);background:var(--card);box-shadow:var(--shadow);border-radius:999px;padding:0 14px 0 12px;flex:none}
 .hero .cond{margin:6px 0 0;font-size:13px;color:var(--hero-sub)}
+.hero h2.combo{font-size:20px;font-weight:800;margin:8px 0 2px;display:flex;align-items:baseline;gap:6px}
+.hero h2.combo b{font-family:var(--sign);font-size:46px;line-height:1;margin-right:4px}
+.hero h2.combo i{font-style:normal;color:var(--hero-sub);margin:0 4px}
 .rw.big b{font-size:48px}
 .rw.big span{display:block;margin:2px 0 0}
 .wait{flex-direction:column;gap:6px}

diff --git a/docs/design/improve-1106/answer-2.md b/docs/design/improve-1106/answer-2.md
@@ -1,6 +1,6 @@
 # 改善案（improve-1106）指摘2回目への答え：v3（2026-11-05・デザイン担当）
 
-改善担当の review-2.md の10件を直した v3 です。v1・v2 はそのまま残します。
+改善担当の review-2.md の10件を、PM の指示（3版目・これで最後のつもり）に合わせて直した v3 です。v1・v2 はそのまま残します。
 
 v3 の画面：01-home-v3（最初の位置）・01b-home-open-v3（引き上げた位置）・**01c-home-out-v3（判定範囲の外・新しく足した）**・**01d-home-guest-v3（ログインしていない・新しく足した）**・02-mypage-v3・03-ops-v3（風なし）・03b-ops-wind-v3（風あり）。PNG は png/plan-*-v3.png（明るい）と png/plan-*-dark-v3.png（暗い）。一覧は index.html。
 
@@ -8,8 +8,8 @@ v3 の画面：01-home-v3（最初の位置）・01b-home-open-v3（引き上げ
 
 | # | 指摘 | どう直したか | 画面 |
 |---|---|---|---|
-| 1 | 風がないのに「北風運用」 | 風がないときは見出しを「いまの使い方（推定）」にし、大きく出すのは着陸 34R・離陸 05 の組み合わせだけ（48px）。カードの中に「北風か南風かは、風の情報が届いてから出します。」。「北風運用」と言い切るのは風が届いた 03b だけ | 03・03b |
-| 2 | タブの数がそろわない | 運用はマイページの「下のタブにない画面」から開く形に一つに決めた。開いた先もタブ帯は3つ（ホーム・図鑑・フライト、どれも選ばれていない）のままで、左上に「‹ マイページ」の戻るピル | 03・03b・02 |
+| 1 | 風がないのに「北風運用」 | 風がないときは見出しを「いまの使い方（推定）」、大見出しを滑走路の組み合わせ「着陸34R・離陸05」（数字46px）にした。ILS Z は時刻の行へ。カードの中に「北風か南風かは、風の情報が届いてから出します。」。「北風運用」と言い切るのは風が届いた 03b だけ | 03・03b |
+| 2 | タブの数がそろわない | PM の判断（タブの数は構成ごとに違ってよい・同じ構成の中ではそろえる）に合わせ、見本は全部「気軽に」の構成にそろえた。運用はマイページの「下のタブにない画面」から開く。開いた先もタブ帯は3つ（ホーム・図鑑・フライト、どれも選ばれていない）のままで、左上に「‹ マイページ」の戻るピル | 03・03b・02 |
 | 3 | 範囲の外・ログインしていないときの半券 | 2枚足した。範囲の外：切り取り部分を灰色（字は濃いグレーで 4.5:1 以上）にして「範囲に入ると切れる」、状態の行に「判定範囲の外・ここから 12.4km」、地図は「いまここ」から空港へ点線。ログインしていない：切り取り部分は「ログインすると使える」、数字の列の代わりに「空港で印を集めるには、ログインが要ります。」と「ログイン・登録」「デモで試す」のピル。理由が重なるときはログインを先に出す | 01c・01d |
 
 ## 残りの7つ
@@ -20,7 +20,7 @@ v3 の画面：01-home-v3（最初の位置）・01b-home-open-v3（引き上げ
 | 5 | 「まだ届いていない」の行 | 「読み込み中：遅れと欠航・今日の定時率」と「いまは出ていない：風の情報」の2行に分けた。「気象通報」の言葉はやめた |
 | 6 | 距離が全部 2km・◎○ | 右の大きい数字は「ここからの距離」に決め、場所ごとに違う値（見本 0.3・1.1・4.8km）。表の上に「場所／ここからの距離」。◎○ はやめ、1つ目に「おすすめ」の小さなピル（13px）。着陸機の線までの距離は補足の行に残す |
 | 7 | タイルの下の行の役目 | 下の行は大きい字の説明だけ：気軽に／タブ3つ・ノーマル／全社を表示・いまは白黒・HND／羽田・デモ中／ログインしていない・11/5／最後に書き出した日。動作は右上の › |
-| 8 | ロゴが消えた | 地図の出典のピルに小さく「そらメモ」を置いた（「そらメモ　地図：国土地理院」）。v2（名前なし）と並べて本人が比べられるようにした |
+| 8 | ロゴが消えた | PM の指示で、図だけの小さいロゴ（36px・今のログイン画面と同じ図）を左上、上の段のすぐ下に残した。デモ中のピルはその右 |
 | 9 | ピル「短」 | ✎ をピル列の外、見出し「この空港で」の右へ出した。4つ目「短冊」まで読め、5つ目が端で切れて横に流せると分かる |
 | 10 | 「今日の定時」 | 「今日の定時率」にし、下に小さく「時間どおりに出た便」。となりの運用時間にも「空港が開いている」を足して高さをそろえた |
 
@@ -42,5 +42,6 @@ v3 の画面：01-home-v3（最初の位置）・01b-home-open-v3（引き上げ
 
 ## 迷った点
 - 01d は「範囲の外かつログインしていない」で描いた（はじめての人にいちばん多い組み合わせ）。範囲の中でもログインしていなければ同じ半券を出す
-- 運用をタブに入れる構成（「撮る」）の見本は作っていない。PM か本人が「運用をタブに入れる形も見たい」と言えば足す
-- 「そらメモ」を出典のピルに入れる案は、名前としては小さい。本人が「もっと目立たせたい」なら、上の段の切り替えを短くする案（本人が名前を変えてよいと言った場合だけ）になる
+- 運用をタブに入れる構成（「撮る」）の見本は作っていない（PM の判断で、構成ごとにタブの数が違ってよい）
+- ロゴは図だけで「そらメモ」の字はない。はじめての人に名前が伝わるのは、ログインと登録の画面になる
+- 01b-home-open-v3（引き上げた位置）は指示の一覧になかったが、半券の直しをそろえるため作った

diff --git a/docs/pm/report-design-improve-1106.md b/docs/pm/report-design-improve-1106.md
@@ -113,24 +113,28 @@ PM が挙げた Tailwind FlightLog は、公開の情報で確かめられるペ
 
 ---
 
-## 3版目で直したこと（2026-11-05・改善担当の指摘2回目 review-2 による）
+## 3版目で直したこと（2026-11-05・改善担当の指摘2回目 review-2 と PM の指示「-v3 を作る」による）
 作ったもの：docs/design/improve-1106/ の 01-home-v3・01b-home-open-v3・**01c-home-out-v3（判定範囲の外）**・**01d-home-guest-v3（ログインしていない）**・02-mypage-v3・03-ops-v3・03b-ops-wind-v3 と、png/plan-*-v3.png（明るい）・png/plan-*-dark-v3.png（暗い）。index.html に v3 を足した。v1・v2 は消していない。くわしい表は answer-2.md。
 
 測った値（v3の7画面×明るい・暗い）：13px 未満の字は単位の12pxだけ・4.5:1 未満の字 0・44px 未満の押せる所 0・タブ帯の下にもぐるもの 0
 
 | 指摘（review-2） | 3版目で直したこと |
 |---|---|
-| 1 風がないのに「北風運用」 | 見出し「いまの使い方（推定）」＋組み合わせ 34R・05 だけ大きく。「北風運用」は風が届いたときだけ |
-| 2 タブの数 | 運用はマイページから開く形に決め、タブ帯は3つのまま＋「‹ マイページ」 |
+| 1 風がないのに「北風運用」 | 見出し「いまの使い方（推定）」、大見出し「着陸34R・離陸05」。「北風運用」は風が届いた 03b だけ |
+| 2 タブの数 | PM の判断（構成ごとに違ってよい・同じ構成ではそろえる）。見本は全部「気軽に」で、マイページから開いた運用もタブ3つ＋「‹ マイページ」 |
 | 3 範囲の外・ログインしていない | 2枚足した（灰色の切り取り部分＋理由1行／ログイン・登録とデモで試す） |
 | 4 切る向き | 右へ引くだけ。「→」を戻した。押しても切れる（確かめ1回） |
-| 5〜10 | 届いていない行を2つに分ける・距離はここからの距離＋おすすめ・タイルの下の行は説明だけ・出典のピルに「そらメモ」・✎ を見出しの右へ・「今日の定時率」 |
+| 5 届いていないの言い方 | 「読み込み中：遅れと欠航・今日の定時率」「いまは出ていない：風の情報」の2行 |
+| 6 距離と ◎○ | 右の数字は「ここからの距離」で場所ごとに違う値、◎○ をやめて「おすすめ」のピル |
+| 7 タイルの下の行 | 大きい字の説明だけ（気軽に／タブ3つ など） |
+| 8 ロゴ | 図だけの小さいロゴを左上に残した（PM の指示） |
+| 9 ピル「短」 | ✎ を見出しの右へ出した |
+| 10 今日の定時 | 「今日の定時率」＋「時間どおりに出た便」 |
 
 ### 迷った点
 - 01d は範囲の外かつログインしていない形で描いた。理由が重なるときはログインを先に出す
 - 運用をタブに入れる構成の見本は作っていない
-- 「そらメモ」の名前は出典のピルに小さく入れただけ
+- ロゴは図だけで、ホームに「そらメモ」の字はない
 
 ### 本人に決めてほしいこと（追加）
-7. ホームの「そらメモ」の名前は、出典のピルに小さく置く形（v3）と、置かない形（v2）のどちらにするか
-8. 運用・修行・成績は、構成によってはタブに入り、入らない構成ではマイページから開く（戻るピル付き）という分け方でよいか
+7. ホームのロゴは図だけ（字なし）を左上に小さく、でよいか
